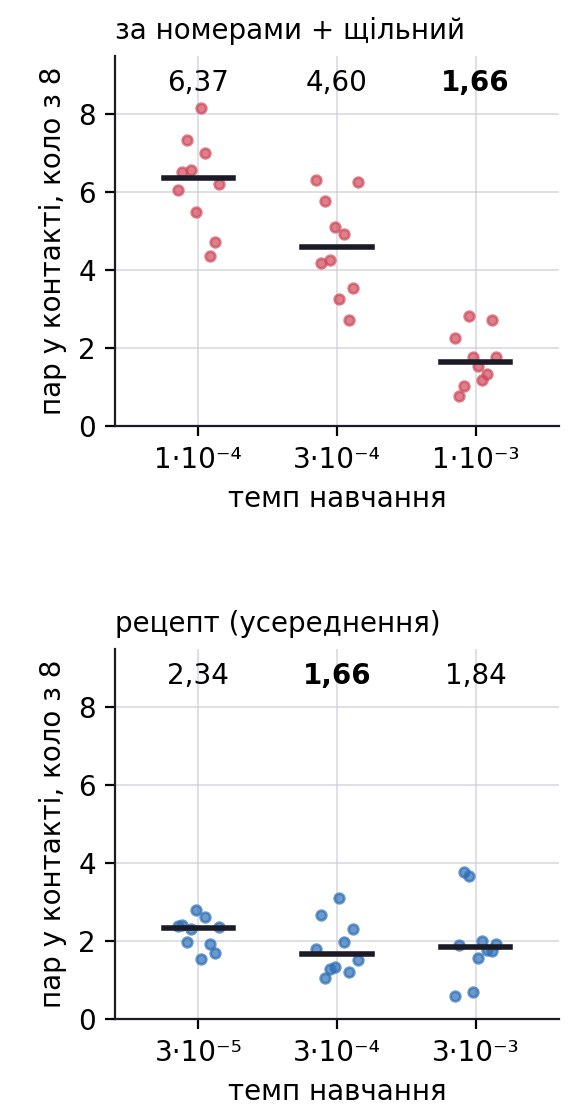
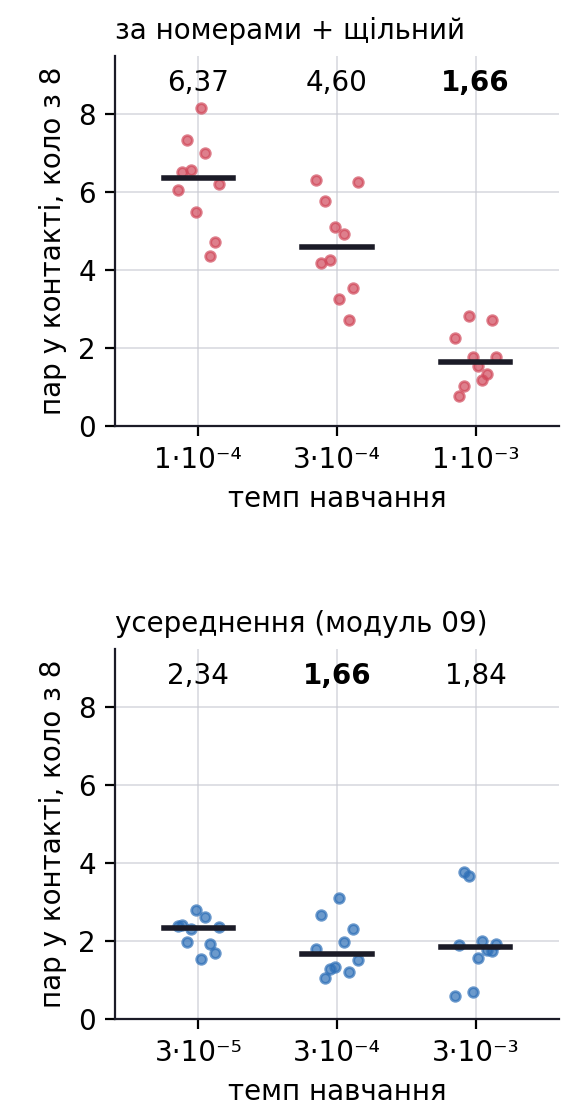
Модуль 10: «рецепт» перейменовано на «навчена політика з модуля 09»
Текст лекції, підписи рисунків, alt-тексти; у модулі 13 — одне згадування.

Changed region(s): [[0.1875, 0.5312, 0.8438, 0.5625]]

diff --git a/lectures/10.md b/lectures/10.md
@@ -5,14 +5,14 @@ outline: [2, 3]
 
 # Модуль 10 · Практика багатоагентного навчання
 
-Рій модуля 09 навчився розминатися: на колі з 4 апаратів — жодного контакту, на колі з 8 — 1,66 пари за політ. Але досить змінити в рецепті одну деталь — темп навчання, винагороду чи вхід мережі, — і рій вчиться повільніше, вчиться не того або зовсім розлітається. А два варіанти, що різняться на кілька десятих пари, можуть виявитися однаковими. Лекція — той самий рій і шість кроків: у кожному змінюємо одну річ і вчимося за журналом навчання й перевіркою зрозуміти, що сталося.
+Рій модуля 09 навчився розминатися: на колі з 4 апаратів — жодного контакту, на колі з 8 — 1,66 пари за політ. Але досить змінити в навчанні з модуля 09 одну деталь — темп навчання, винагороду чи вхід мережі, — і рій вчиться повільніше, вчиться не того або зовсім розлітається. А два варіанти, що різняться на кілька десятих пари, можуть виявитися однаковими. Лекція — той самий рій і шість кроків: у кожному змінюємо одну річ і вчимося за журналом навчання й перевіркою зрозуміти, що сталося.
 
 ::: info Задача лекції
-**Дано:** рій модуля 09 — апарати на колі міняються місцями, контакт — ближче 0,2 м. **Рецепт** модуля 09: одна мережа на всіх, усереднене вкладення сусідів, винагорода зі щільним штрафом (9.3), PPO з темпом навчання $3 \cdot 10^{-4}$, 500 ітерацій на 4 апаратах. Результат рецепта — 0 пар у контакті на колі з 4 і 1,66 на колі з 8, медіана за 10 зернами.
+**Дано:** рій модуля 09 — апарати на колі міняються місцями, контакт — ближче 0,2 м. **Навчена політика з модуля 09** — так її називатимемо далі: одна мережа на всіх, усереднене вкладення сусідів, винагорода зі щільним штрафом (9.3), PPO з темпом навчання $3 \cdot 10^{-4}$, 500 ітерацій на 4 апаратах. Її результат — 0 пар у контакті на колі з 4 і 1,66 на колі з 8, медіана за 10 зернами.
 
 **Треба:** за журналом навчання й перевіркою знайти, що зламалося, і відрізнити справжнє покращення від шуму.
 
-**Як:** змінюємо в рецепті одну річ, навчаємо 10 зерен, перевіряємо на тих самих 50 польотах, що й у модулі 09.
+**Як:** змінюємо в навчанні з модуля 09 одну річ, навчаємо 10 зерен, перевіряємо на тих самих 50 польотах, що й у модулі 09.
 :::
 
 ::: tip Чому лекція побудована так
@@ -21,9 +21,9 @@ outline: [2, 3]
 :::
 
 
-<Figure src="/figs/own/mod10-map.png" msrc="/figs/own/mod10-map-m.png" alt="Рис. 10.1. Карта лекції: шість кроків, у кожному — що змінили в рецепті модуля 09 і що побачили: лінійка (рецепт −2,40, межа −2,11), темп навчання (3·10⁻²: KL 1,25, σ до 2,14), спільна винагорода (з V = 0 рій відлітає), ролі (ціль сховано — 0 %, з номером — 100 %), зерна (4,60 проти 4,23 — шум), бюджет пошуку («за номерами» 4,60 → 1,66)">
+<Figure src="/figs/own/mod10-map.png" msrc="/figs/own/mod10-map-m.png" alt="Рис. 10.1. Карта лекції: шість кроків, у кожному — що змінили в навчанні з модуля 09 і що побачили: лінійка (навчена політика −2,40, стояти −20, межа −2,11), темп навчання (3·10⁻²: KL 1,25, σ до 2,14), спільна винагорода (з V = 0 рій відлітає), ролі (ціль сховано — 0 %, з номером — 100 %), зерна (4,60 проти 4,23 — шум), бюджет пошуку («за номерами» 4,60 → 1,66)">
 
-Рис. 10.1. Карта лекції: шість кроків, у кожному — що змінили в рецепті модуля 09 і що побачили: лінійка (рецепт −2,40, межа −2,11), темп навчання (3·10⁻²: KL 1,25, σ до 2,14), спільна винагорода (з V = 0 рій відлітає), ролі (ціль сховано — 0 %, з номером — 100 %), зерна (4,60 проти 4,23 — шум), бюджет пошуку («за номерами» 4,60 → 1,66)
+Рис. 10.1. Карта лекції: шість кроків, у кожному — що змінили в навчанні з модуля 09 і що побачили: лінійка (навчена політика −2,40, стояти −20, межа −2,11), темп навчання (3·10⁻²: KL 1,25, σ до 2,14), спільна винагорода (з V = 0 рій відлітає), ролі (ціль сховано — 0 %, з номером — 100 %), зерна (4,60 проти 4,23 — шум), бюджет пошуку («за номерами» 4,60 → 1,66)
 
 </Figure>
 
@@ -43,50 +43,50 @@ outline: [2, 3]
 <div class="step-nav">Крок 1 з 6 · ●○○○○○</div>
 
 ::: danger Проблема
-Журнал навчання рецепта закінчується віддачею −3,26 за політ. Добре це чи погано? Саме число нічого не каже: віддача залежить від винагороди, тривалості польоту й задачі.
+Журнал навчання політики з модуля 09 закінчується віддачею −3,26 за політ. Добре це чи погано? Саме число нічого не каже: віддача залежить від винагороди, тривалості польоту й задачі.
 :::
 
 ::: warning Ідея
 Поставити поруч віддачі простих політик, які нічого не вчили, і межу, кращу за яку не буває. Тоді −3,26 стає точкою на шкалі.
 :::
 
-**Віддача** тут — сума винагород (9.3) одного апарата за політ зі 100 кроків, середнє за апаратами й 50 тестовими польотами. Беремо три **базові політики** — прості, без навчання — і рецепт, усе на колі з 4. Поруч із віддачею дивимося на дві метрики задачі: **пар у контакті** і **дійшли до цілі** — частку апаратів, що наприкінці польоту ближче 0,1 м до своєї цілі.
+**Віддача** тут — сума винагород (9.3) одного апарата за політ зі 100 кроків, середнє за апаратами й 50 тестовими польотами. Беремо три **базові політики** — прості, без навчання — і навчену політику з модуля 09, усе на колі з 4. Поруч із віддачею дивимося на дві метрики задачі: **пар у контакті** і **дійшли до цілі** — частку апаратів, що наприкінці польоту ближче 0,1 м до своєї цілі.
 
 - **мережа до навчання** — ті самі ваги, з яких стартує навчання, 10 зерен;
 - **стояти на місці** — бажана швидкість нуль;
 - **летіти прямо** — до цілі на повній швидкості, сусідів не бачить (крок 1 модуля 09);
-- **рецепт** — навчена політика модуля 09, 10 зерен.
+- **навчена політика з модуля 09** — 10 зерен.
 
 **Межа.** Навіть без сусідів апарат мусить долетіти до цілі, і доданка відстані $-0{,}1\,\lVert g_i - p_i \rVert$ на кожному кроці не уникнути. Прямий політ, у якому рахуємо лише цей доданок, дає найкращу віддачу, яку можна отримати: −2,11.
 
 
-<Figure src="/figs/own/mod10-ruler.png" msrc="/figs/own/mod10-ruler-m.png" alt="Рис. 10.2. Віддача апарата за політ на колі з 4: мережа до навчання −22,7, стояти на місці −20,0, летіти прямо −13,7 (6 пар із 6), рецепт модуля 09 −2,4; пунктир — межа −2,11, лише доданок відстані до цілі">
+<Figure src="/figs/own/mod10-ruler.png" msrc="/figs/own/mod10-ruler-m.png" alt="Рис. 10.2. Віддача апарата за політ на колі з 4: мережа до навчання −22,7, стояти на місці −20,0, летіти прямо −13,7 (6 пар із 6), навчена політика з модуля 09 −2,4; пунктир — межа −2,11, лише доданок відстані до цілі">
 
-Рис. 10.2. Віддача апарата за політ на колі з 4: мережа до навчання −22,7, стояти на місці −20,0, летіти прямо −13,7 (6 пар із 6), рецепт модуля 09 −2,4; пунктир — межа −2,11, лише доданок відстані до цілі
+Рис. 10.2. Віддача апарата за політ на колі з 4: мережа до навчання −22,7, стояти на місці −20,0, летіти прямо −13,7 (6 пар із 6), навчена політика з модуля 09 −2,4; пунктир — межа −2,11, лише доданок відстані до цілі
 
 </Figure>
 
 
-*Табл. 10.1. Коло з 4, 50 тестових польотів; для мережі до навчання й рецепта — медіана за 10 зернами*
+*Табл. 10.1. Коло з 4, 50 тестових польотів; для мережі до навчання й навченої політики — медіана за 10 зернами*
 
 | **Політика** | **Віддача за політ** | **Пар у контакті** | **Дійшли до цілі** |
 |---|---|---|---|
 | мережа до навчання | −22,69 | 0 | 0 % |
 | стояти на місці | −19,99 | 0 | 0 % |
 | летіти прямо | −13,68 | 6 з 6 | 100 % |
-| рецепт | −2,40 | 0 | 100 % |
+| навчена політика з модуля 09 | −2,40 | 0 | 100 % |
 | межа: лише відстань до цілі | −2,11 | — | — |
 
 ::: info Розрахунок: скільки лишилося покращувати
-Від мережі до навчання до межі — 20,58 одиниці віддачі. Рецепт пройшов 98,6 % цього шляху: від −2,40 до межі лишається 0,29. Ці 0,29 — ціна розминання: апарат облітає сусідів і на кілька кроків довше летить до цілі.
+Від мережі до навчання до межі — 20,58 одиниці віддачі. Навчена політика пройшла 98,6 % цього шляху: від −2,40 до межі лишається 0,29. Ці 0,29 — ціна розминання: апарат облітає сусідів і на кілька кроків довше летить до цілі.
 :::
 
-**Шкала для журналу.** Журнал рахує віддачу на навчальних сценах (половина — коло з випадковим радіусом, половина — випадкові старти й цілі) і з шумом дій. На тих самих навчальних сценах стояти — −23,56, летіти прямо — −12,84, жадібний рецепт — −3,02; з шумом дій у журналі — −3,26. На навчальних сценах шкала інша: стояти там гірше, ніж на тестовому колі (−23,56 проти −19,99), летіти прямо — трохи краще (−12,84 проти −13,68). Тож числа журналу порівнюємо з базовими політиками саме на навчальних сценах.
+**Шкала для журналу.** Журнал рахує віддачу на навчальних сценах (половина — коло з випадковим радіусом, половина — випадкові старти й цілі) і з шумом дій. На тих самих навчальних сценах стояти — −23,56, летіти прямо — −12,84, жадібна навчена політика — −3,02; з шумом дій у журналі — −3,26. На навчальних сценах шкала інша: стояти там гірше, ніж на тестовому колі (−23,56 проти −19,99), летіти прямо — трохи краще (−12,84 проти −13,68). Тож числа журналу порівнюємо з базовими політиками саме на навчальних сценах.
 
 **Одного числа замало.** Прямий політ має кращу віддачу, ніж стояти на місці (−13,68 проти −19,99), і при цьому торкається всіх 6 пар. Стояти на місці безпечно, але ніхто не долітає. Тому віддачу завжди читаємо разом із парами в контакті й часткою тих, хто дійшов.
 
 ::: tip Результат кроку 1
-Дві шкали. Тестове коло: мережа до навчання −22,69, стояти −19,99, рецепт −2,40, межа −2,11. Навчальні сцени, з якими порівнюємо журнал: стояти −23,56, прямо −12,84, жадібний рецепт −3,02, рецепт у журналі −3,26. Віддачу завжди читаємо разом із парами в контакті й часткою тих, хто дійшов.
+Дві шкали. Тестове коло: мережа до навчання −22,69, стояти −19,99, навчена політика −2,40, межа −2,11. Навчальні сцени, з якими порівнюємо журнал: стояти −23,56, прямо −12,84, жадібна навчена політика −3,02, навчена політика в журналі −3,26. Віддачу завжди читаємо разом із парами в контакті й часткою тих, хто дійшов.
 :::
 
 ## Крок 2. Журнал навчання: темп навчання
@@ -101,12 +101,12 @@ outline: [2, 3]
 На кожній ітерації записувати кілька чисел про саме навчання — **журнал навчання**. Кожне число відповідає на одне питання: чи змінюється політика, чи не забагато, чи ще досліджує, чи критик щось розуміє.
 :::
 
-**Темп навчання** (*learning rate*) — множник кроку оптимізатора Adam: на скільки змінюються ваги мережі за одне оновлення. У рецепті — $3 \cdot 10^{-4}$ (табл. 9.1 модуля 09), як у PPO Schulman та ін. (2017). Навчимо той самий рій із темпом удесятеро меншим, удесятеро і в сто разів більшим.
+**Темп навчання** (*learning rate*) — множник кроку оптимізатора Adam: на скільки змінюються ваги мережі за одне оновлення. У модулі 09 — $3 \cdot 10^{-4}$ (табл. 9.1 модуля 09), як у PPO Schulman та ін. (2017). Навчимо той самий рій із темпом удесятеро меншим, удесятеро і в сто разів більшим.
 
 ::: info Що записуємо на кожній ітерації
 Тут $\rho = \pi_{\text{нова}}(a \mid o) / \pi_{\text{стара}}(a \mid o)$ — **відношення ймовірностей** дії в новій і старій політиці з модуля 05. PPO обрізає його до 0,8…1,2, щоб політика не відходила від старої більше ніж на 20 %. **KL** — дивергенція Кульбака — Лейблера: міра того, наскільки один розподіл дій відрізняється від іншого.
 
-| **Число** | **Що це** | **Рецепт: ітерації 0–9 → 490–499** |
+| **Число** | **Що це** | **Навчена політика: ітерації 0–9 → 490–499** |
 |---|---|---|
 | віддача | середня віддача апарата за політ у навчальних польотах (з шумом дій) | −20,42 → −3,26 |
 | KL | наскільки нова політика відійшла від старої за ітерацію: середнє $(\rho - 1 - \ln \rho)$ | 0,0017 → 0,0027 |
@@ -135,17 +135,17 @@ outline: [2, 3]
 | **Темп** | **Віддача** | **KL** | **Обрізано** | **σ** | **Поясн. дисп.** | **Коло з 8: пар · дійшли** |
 |---|---|---|---|---|---|---|
 | $3 \cdot 10^{-5}$ | −4,69 | 0,0001 | 0 % | 0,57 | 0,23 | 2,34 · 100 % |
-| $3 \cdot 10^{-4}$, рецепт | −3,26 | 0,0027 | 3 % | 0,30 | 0,83 | 1,66 · 82 % |
+| $3 \cdot 10^{-4}$, як у модулі 09 | −3,26 | 0,0027 | 3 % | 0,30 | 0,83 | 1,66 · 82 % |
 | $3 \cdot 10^{-3}$ | −3,32 | 0,016 | 16 % | 0,086 | 0,80 | 1,84 · 89 % |
 | $3 \cdot 10^{-2}$ | −8,09 | 0,028 | 17 % | 2,14 | 0,76 | 1,66 · 52 % |
 
 **Як це читати.**
 
-- **Замалий темп, $3 \cdot 10^{-5}$.** KL у двадцять разів менший, ніж у рецепта, обрізань немає, σ за 500 ітерацій майже не зменшилася (0,61 → 0,57). Політика ледь змінюється. Віддача росте, але повільно, а критик пояснює лише 23 % розкиду. Апарати долітають, проте на колі з 8 торкаються частіше: 2,34 пари (чи це більше за шум, не перевіряли).
-- **Завеликий темп, $3 \cdot 10^{-3}$.** Кінцева віддача така сама, як у рецепта, і на колі з 8 різниця в межах шуму. Але журнал попереджає: KL росте до 0,016, обрізано 16 % відношень, σ упала до 0,086 — політика майже перестала досліджувати. Рій встиг навчитися раніше, ніж перестав пробувати нове; в іншій задачі на цьому навчання може й зупинитися.
-- **Зламаний темп, $3 \cdot 10^{-2}$.** Уже за перші 10 ітерацій KL — 1,25, у сотні разів більше, ніж у рецепта, віддача падає до −46,5 — гірше, ніж на нульовій ітерації (−20,42). Далі σ росте до 2,14: шум дій більший за найбільшу команду (1 м/с), тож апарат майже не керує собою. До цілі на колі з 4 доходить 73 % апаратів, на колі з 8 — 52 %. Пар у контакті 1,66, як у рецепта: апарати, що не долетіли до центру, і не торкаються.
+- **Замалий темп, $3 \cdot 10^{-5}$.** KL у двадцять разів менший, ніж у навченої політики, обрізань немає, σ за 500 ітерацій майже не зменшилася (0,61 → 0,57). Політика ледь змінюється. Віддача росте, але повільно, а критик пояснює лише 23 % розкиду. Апарати долітають, проте на колі з 8 торкаються частіше: 2,34 пари (чи це більше за шум, не перевіряли).
+- **Завеликий темп, $3 \cdot 10^{-3}$.** Кінцева віддача така сама, як у навченої політики, і на колі з 8 різниця в межах шуму. Але журнал попереджає: KL росте до 0,016, обрізано 16 % відношень, σ упала до 0,086 — політика майже перестала досліджувати. Рій встиг навчитися раніше, ніж перестав пробувати нове; в іншій задачі на цьому навчання може й зупинитися.
+- **Зламаний темп, $3 \cdot 10^{-2}$.** Уже за перші 10 ітерацій KL — 1,25, у сотні разів більше, ніж у навченої політики, віддача падає до −46,5 — гірше, ніж на нульовій ітерації (−20,42). Далі σ росте до 2,14: шум дій більший за найбільшу команду (1 м/с), тож апарат майже не керує собою. До цілі на колі з 4 доходить 73 % апаратів, на колі з 8 — 52 %. Пар у контакті 1,66, як у навченої політики: апарати, що не долетіли до центру, і не торкаються.
 
-Останній рядок показує, чому пари в контакті без частки тих, хто дійшов, оманливі: найгірша політика має стільки ж пар, скільки рецепт.
+Останній рядок показує, чому пари в контакті без частки тих, хто дійшов, оманливі: найгірша політика має стільки ж пар, скільки навчена політика з модуля 09.
 
 ::: info Симптоми в журналі PPO
 | **Що бачимо** | **Що це означає** | **Що робити** |
@@ -167,11 +167,11 @@ outline: [2, 3]
 <div class="step-nav">Крок 3 з 6 · ●●●○○○</div>
 
 ::: danger Проблема
-У рецепті кожен апарат отримує **свою** винагороду: хто зачепив сусіда, той і штрафується. У багатьох місіях так не можна — рій отримує одне число за спільний результат, наприклад за площу, яку обстежили всі разом. Як тоді навчається наш рій?
+У модулі 09 кожен апарат отримує **свою** винагороду: хто зачепив сусіда, той і штрафується. У багатьох місіях так не можна — рій отримує одне число за спільний результат, наприклад за площу, яку обстежили всі разом. Як тоді навчається наш рій?
 :::
 
 ::: warning Ідея
-Навчити той самий рецепт, але кожному апарату на кожному кроці давати **спільну винагороду** — середнє винагород усіх апаратів рою.
+Навчити так само, як у модулі 09, але кожному апарату на кожному кроці давати **спільну винагороду** — середнє винагород усіх апаратів рою.
 :::
 
 ::: info Приклад: своя і спільна винагорода на одному кроці
@@ -188,9 +188,9 @@ outline: [2, 3]
 **Що вийшло.** Рій не просто вчиться повільніше — він розучується літати. Перші 2–29 ітерацій (залежно від зерна) віддача трохи росте, далі падає до −51 — гірше, ніж стояти на місці на тих самих навчальних сценах (−23,6). Після навчання рій строєм відлітає від цілей: за 10 с центр рою зсувається на 9–10 м, у кожного зерна в свій бік. До цілі не доходить жоден апарат у жодному з 10 зерен.
 
 
-<Figure src="/figs/own/mod10-teamfail.png" msrc="/figs/own/mod10-teamfail-m.png" alt="Рис. 10.4. Віддача під час навчання рецепта зі своєю і зі спільною винагородою: своя росте до −3,3, спільна після перших ітерацій падає до −51, нижче лінії «стояти на місці» (−23,6); праворуч — політ рою зі спільною винагородою після навчання: чотири апарати строєм відлітають на 10 м від своїх цілей">
+<Figure src="/figs/own/mod10-teamfail.png" msrc="/figs/own/mod10-teamfail-m.png" alt="Рис. 10.4. Віддача під час навчання, як у модулі 09, зі своєю і зі спільною винагородою: своя росте до −3,3, спільна після перших ітерацій падає до −51, нижче лінії «стояти на місці» (−23,6); праворуч — політ рою зі спільною винагородою після навчання: чотири апарати строєм відлітають на 10 м від своїх цілей">
 
-Рис. 10.4. Віддача під час навчання рецепта зі своєю і зі спільною винагородою: своя росте до −3,3, спільна після перших ітерацій падає до −51, нижче лінії «стояти на місці» (−23,6); праворуч — політ рою зі спільною винагородою після навчання: чотири апарати строєм відлітають на 10 м від своїх цілей
+Рис. 10.4. Віддача під час навчання, як у модулі 09, зі своєю і зі спільною винагородою: своя росте до −3,3, спільна після перших ітерацій падає до −51, нижче лінії «стояти на місці» (−23,6); праворуч — політ рою зі спільною винагородою після навчання: чотири апарати строєм відлітають на 10 м від своїх цілей
 
 </Figure>
 
@@ -209,7 +209,7 @@ outline: [2, 3]
 
 **Перевага — це «несподіванка».** Критик прогнозує, скільки винагороди апарат ще збере, — це цінність $V$. Якщо після дії справи пішли краще за прогноз, перевага додатна.
 
-**Що стається на останньому кроці.** Політ обривається після 100-го кроку незалежно від того, долетів апарат чи ні. Критик часу не бачить: стан на 100-му кроці для нього такий самий, як на 50-му. Тож у кожному стані він прогнозує ту саму цінність — у найпростішому польоті з штрафом −0,3 на кожному кроці це $-0{,}3/(1 - 0{,}99) = -30$. А рецепт модуля 09 після 100-го кроку підставляє $V = 0$: «далі нічого не буде».
+**Що стається на останньому кроці.** Політ обривається після 100-го кроку незалежно від того, долетів апарат чи ні. Критик часу не бачить: стан на 100-му кроці для нього такий самий, як на 50-му. Тож у кожному стані він прогнозує ту саму цінність — у найпростішому польоті з штрафом −0,3 на кожному кроці це $-0{,}3/(1 - 0{,}99) = -30$. А навчання з модуля 09 після 100-го кроку підставляє $V = 0$: «далі нічого не буде».
 
 ::: info Розрахунок: несподіванка останнього кроку
 Критик чекав −30, а отримав штраф −0,3 і нуль після нього:
@@ -289,7 +289,7 @@ V = 0 на 100-му кроці  A на кроках 0, 50, 90, 99: [ 0.07  1.47 
 
 | **Винагорода** | **Після 100-го кроку** | **Віддача, ітерації 490–499** | **Коло з 4: пар · дійшли** | **Коло з 8: пар · дійшли** |
 |---|---|---|---|---|
-| своя (рецепт) | $V = 0$ | −3,26 | 0 · 100 % | 1,66 · 82 % |
+| своя (як у модулі 09) | $V = 0$ | −3,26 | 0 · 100 % | 1,66 · 82 % |
 | спільна | $V = 0$ | −50,9 | 0 · 0 % | 0 · 0 % |
 | своя | бутстреп цінності | −3,39 | 0 · 100 % | 1,71 · 100 % |
 | спільна | бутстреп цінності | −4,47 | 0 · 100 % | 2,28 · 100 % |
@@ -306,8 +306,8 @@ V = 0 на 100-му кроці  A на кроках 0, 50, 90, 99: [ 0.07  1.47 
 
 **Але повільніше, ніж зі своєю.** На 90–99-й ітераціях віддача −7,29 проти −4,70, наприкінці −4,47 проти −3,39. Імовірна причина — розподіл заслуг із модулів 06 і 09: внесок чотирьох апаратів змішано в одне число, і апарат гірше бачить, які з його власних дій були добрими. Чому вада з $V = 0$ зламала саме спільну винагороду, а свою — ні, ми окремо не вимірювали; наше пояснення — у «Межах». Пар у контакті на колі з 8 — 2,28 проти 1,71; чи це справжня різниця, перевіримо в кроці 5.
 
-::: details Рецепт модуля 09 з бутстрепом цінності
-Рецепт мав ту саму ваду, але зі своєю винагородою вона майже не шкодила: пар на колі з 8 — 1,71 з бутстрепом проти 1,66 без нього. До цілі на колі з 8 тепер доходять 100 % апаратів проти 82 %, на колі з 16 — 50 % проти 66 %. Щоб числа кроків 4–6 збігалися з модулем 09, далі лишаємо рецепт без змін, із $V = 0$.
+::: details Навчена політика з модуля 09 з бутстрепом цінності
+Навчання з модуля 09 мало ту саму ваду, але зі своєю винагородою вона майже не шкодила: пар на колі з 8 — 1,71 з бутстрепом проти 1,66 без нього. До цілі на колі з 8 тепер доходять 100 % апаратів проти 82 %, на колі з 16 — 50 % проти 66 %. Щоб числа кроків 4–6 збігалися з модулем 09, далі лишаємо навчання з модуля 09 без змін, із $V = 0$.
 :::
 
 ::: tip Результат кроку 3
@@ -319,7 +319,7 @@ V = 0 на 100-му кроці  A на кроках 0, 50, 90, 99: [ 0.07  1.47 
 <div class="step-nav">Крок 4 з 6 · ●●●●○○</div>
 
 ::: danger Проблема
-Рецепт дає всім апаратам одну мережу. Це працює, бо всі роблять одне й те саме: летять до цілі, вектор до якої бачать у своєму вході. А якщо в кожного апарата своя роль — свій сектор, своя точка посадки, — і мережа не знає, чия вона?
+У модулі 09 всі апарати виконують одну мережу. Це працює, бо всі роблять одне й те саме: летять до цілі, вектор до якої бачать у своєму вході. А якщо в кожного апарата своя роль — свій сектор, своя точка посадки, — і мережа не знає, чия вона?
 :::
 
 **Задача ролей.** Чотири апарати стартують у випадкових точках квадрата ±1,2 м. Кожен має сісти у **свою** точку: апарат 1 — у $(0{,}8;\ 0{,}8)$, апарат 2 — у $(-0{,}8;\ 0{,}8)$, 3 — у $(-0{,}8;\ -0{,}8)$, 4 — у $(0{,}8;\ -0{,}8)$. Винагорода та сама (9.3), PPO той самий, 10 зерен, перевірка — 50 польотів із випадкових стартів.
@@ -336,7 +336,7 @@ V = 0 на 100-му кроці  A на кроках 0, 50, 90, 99: [ 0.07  1.47 
 Головне питання — звідки апарат знає, яка точка його. Пробуємо чотири варіанти входу і для кожного дивимося, що бачить апарат 1 на старті першого тестового польоту: він у точці $(-0{,}49;\ 0{,}04)$, швидкість нуль, його точка — $(0{,}8;\ 0{,}8)$.
 :::
 
-**Варіант 1. Ціль у вході — як у рецепті.** Апарат бачить вектор до своєї точки і свою швидкість: $(1{,}29;\ 0{,}76;\ 0;\ 0)$. Мережа одна на всіх. Команда — $(1{,}00;\ 0{,}94)$ м/с, майже прямо на свою точку. **До своєї точки доходять 100 % апаратів.**
+**Варіант 1. Ціль у вході — як у модулі 09.** Апарат бачить вектор до своєї точки і свою швидкість: $(1{,}29;\ 0{,}76;\ 0;\ 0)$. Мережа одна на всіх. Команда — $(1{,}00;\ 0{,}94)$ м/с, майже прямо на свою точку. **До своєї точки доходять 100 % апаратів.**
 
 **Варіант 2. Ціль сховано.** Замість вектора до точки апарат бачить своє положення і швидкість: $(-0{,}49;\ 0{,}04;\ 0;\ 0)$. Про те, яка точка його, у вході нічого немає. Мережа одна на всіх. Команда — $(1{,}00;\ -1{,}00)$ м/с, на 75° убік від його точки. Якби на цьому місці з тими самими сусідами стояв апарат 3, вхід був би той самий — і команда та сама, хоча його точка в протилежному куті. Одна мережа не може послати їх у різні точки. **До своєї точки не доходить ніхто (0 %)**: апарати збираються ближче до центру квадрата й зависають у середньому за 1,26 м від своїх точок.
 
@@ -394,7 +394,7 @@ V = 0 на 100-му кроці  A на кроках 0, 50, 90, 99: [ 0.07  1.47 
 <div class="step-nav">Крок 5 з 6 · ●●●●●○</div>
 
 ::: danger Проблема
-**Зерно** (*random seed*) — число, яке задає всю випадковість навчання: початкові ваги мережі, навчальні сцени, шум дій. Та сама програма з різними зернами вчиться по-різному: рецепт на колі з 8 дає від 1,06 до 3,12 пари залежно від зерна. У модулі 09 «за номерами + щільний» дав 4,60 пари (медіана 10 зерен), «за відстанню + щільний» — 4,23. Чи справді «за відстанню» кращий?
+**Зерно** (*random seed*) — число, яке задає всю випадковість навчання: початкові ваги мережі, навчальні сцени, шум дій. Та сама програма з різними зернами вчиться по-різному: навчена політика з модуля 09 на колі з 8 дає від 1,06 до 3,12 пари залежно від зерна. У модулі 09 «за номерами + щільний» дав 4,60 пари (медіана 10 зерен), «за відстанню + щільний» — 4,23. Чи справді «за відстанню» кращий?
 :::
 
 ::: warning Ідея
@@ -464,17 +464,17 @@ print(f"частка повторів, де «за номерами» краще
 
 ### 5.1 Протокол перевірки
 
-Зерна навчання — не єдине джерело розкиду. **Протокол перевірки** — скільки тестових польотів і з яких стартів; старти задає окреме **зерно перевірки**. Перевіримо ті самі 10 моделей рецепта чотирма протоколами:
+Зерна навчання — не єдине джерело розкиду. **Протокол перевірки** — скільки тестових польотів і з яких стартів; старти задає окреме **зерно перевірки**. Перевіримо ті самі 10 моделей навченої політики з модуля 09 чотирма протоколами:
 
 
-<Figure src="/figs/own/mod10-protocol.png" msrc="/figs/own/mod10-protocol-m.png" alt="Рис. 10.11. Ті самі 10 моделей рецепта на колі з 8 за чотирьох протоколів перевірки — 20, 50, 50 з іншими стартами і 500 польотів; медіани 1,60, 1,66, 1,78, 1,73; лінії з'єднують те саме зерно">
+<Figure src="/figs/own/mod10-protocol.png" msrc="/figs/own/mod10-protocol-m.png" alt="Рис. 10.11. Ті самі 10 моделей навченої політики з модуля 09 на колі з 8 за чотирьох протоколів перевірки — 20, 50, 50 з іншими стартами і 500 польотів; медіани 1,60, 1,66, 1,78, 1,73; лінії з'єднують те саме зерно">
 
-Рис. 10.11. Ті самі 10 моделей рецепта на колі з 8 за чотирьох протоколів перевірки — 20, 50, 50 з іншими стартами і 500 польотів; медіани 1,60, 1,66, 1,78, 1,73; лінії з'єднують те саме зерно
+Рис. 10.11. Ті самі 10 моделей навченої політики з модуля 09 на колі з 8 за чотирьох протоколів перевірки — 20, 50, 50 з іншими стартами і 500 польотів; медіани 1,60, 1,66, 1,78, 1,73; лінії з'єднують те саме зерно
 
 </Figure>
 
 
-*Табл. 10.5. Рецепт, коло з 8: пар у контакті, медіана (мін–макс) за 10 зернами*
+*Табл. 10.5. Навчена політика з модуля 09, коло з 8: пар у контакті, медіана (мін–макс) за 10 зернами*
 
 | **Протокол** | **Пар у контакті** |
 |---|---|
@@ -490,7 +490,7 @@ print(f"частка повторів, де «за номерами» краще
 <div class="step-nav">Крок 6 з 6 · ●●●●●●</div>
 
 ::: danger Проблема
-У модулі 09 усі варіанти навчено з тим самим темпом $3 \cdot 10^{-4}$. Рецепт («усереднення + щільний») дав 1,66 пари на колі з 8, «за номерами + щільний» — 4,60. Чи це перевага способу подати сусідів — чи темп $3 \cdot 10^{-4}$ просто краще підійшов рецепту?
+У модулі 09 усі варіанти навчено з тим самим темпом $3 \cdot 10^{-4}$. Навчена політика («усереднення + щільний») дав 1,66 пари на колі з 8, «за номерами + щільний» — 4,60. Чи це перевага способу подати сусідів — чи темп $3 \cdot 10^{-4}$ просто краще підійшов усередненню?
 :::
 
 **Гіперпараметр** — налаштування, яке не вчиться разом із мережею, а задається до навчання: темп, розмір мережі, кількість проходів. **Бюджет пошуку** — скільки значень гіперпараметрів спробували для варіанта. У модулі 09 бюджет кожного варіанта — одне значення темпу.
@@ -502,9 +502,9 @@ print(f"частка повторів, де «за номерами» краще
 **Як вибирати найкращий.** Під час навчання кожні 25 ітерацій політику перевіряють на 20 польотах (зерно перевірки 7) — це **крива навчання**. Найкращий темп вибираємо за останньою точкою кривої, а результат наводимо на інших польотах — 50 тестових, зерно перевірки 123. Якщо вибирати й звітувати на тих самих польотах, переможець виглядатиме кращим, ніж є: його вибрали саме тому, що йому на цих польотах пощастило.
 
 
-<Figure src="/figs/own/mod10-budget.png" msrc="/figs/own/mod10-budget-m.png" alt="Рис. 10.12. Пар у контакті на колі з 8 за трьох темпів навчання, 10 зерен: «за номерами + щільний» 6,37, 4,60, 1,66 і рецепт 2,34, 1,66, 1,84; найкращі — по 1,66 в обох">
+<Figure src="/figs/own/mod10-budget.png" msrc="/figs/own/mod10-budget-m.png" alt="Рис. 10.12. Пар у контакті на колі з 8 за трьох темпів навчання, 10 зерен: «за номерами + щільний» 6,37, 4,60, 1,66 і «усереднення + щільний» з модуля 09 2,34, 1,66, 1,84; найкращі — по 1,66 в обох">
 
-Рис. 10.12. Пар у контакті на колі з 8 за трьох темпів навчання, 10 зерен: «за номерами + щільний» 6,37, 4,60, 1,66 і рецепт 2,34, 1,66, 1,84; найкращі — по 1,66 в обох
+Рис. 10.12. Пар у контакті на колі з 8 за трьох темпів навчання, 10 зерен: «за номерами + щільний» 6,37, 4,60, 1,66 і «усереднення + щільний» з модуля 09 2,34, 1,66, 1,84; найкращі — по 1,66 в обох
 
 </Figure>
 
@@ -516,23 +516,23 @@ print(f"частка повторів, де «за номерами» краще
 | за номерами + щільний | $1 \cdot 10^{-4}$ | 6,45 | 6,37 | 100 % |
 | | $3 \cdot 10^{-4}$ | 4,77 | 4,60 | 100 % |
 | | $1 \cdot 10^{-3}$ | **1,72** | **1,66** (0,78–2,84) | 100 % |
-| рецепт: усереднення + щільний | $3 \cdot 10^{-5}$ | 2,35 | 2,34 | 100 % |
+| навчена політика: усереднення + щільний | $3 \cdot 10^{-5}$ | 2,35 | 2,34 | 100 % |
 | | $3 \cdot 10^{-4}$ | **1,60** | **1,66** (1,06–3,12) | 82 % |
 | | $3 \cdot 10^{-3}$ | 1,80 | 1,84 | 89 % |
 
-**З однаковим бюджетом різниці на колі з 8 немає.** «За номерами» з темпом $10^{-3}$ — 1,66 пари, стільки ж, скільки рецепт, і до цілі доходять усі. Перевага рецепта в модулі 09 (1,66 проти 4,60) трималася на темпі, який підійшов рецепту й не підійшов «за номерами». Вибір за кривою й тест майже збіглися (1,72 і 1,66), тож 20 польотів для вибору досить.
+**З однаковим бюджетом різниці на колі з 8 немає.** «За номерами» з темпом $10^{-3}$ — 1,66 пари, стільки ж, скільки навчена політика, і до цілі доходять усі. Перевага усереднення в модулі 09 (1,66 проти 4,60) трималася на темпі, який підійшов усередненню й не підійшов «за номерами». Вибір за кривою й тест майже збіглися (1,72 і 1,66), тож 20 польотів для вибору досить.
 
-**Перевага усереднення — на більшому рої.** На колі з 16 обидва варіанти торкаються часто (рецепт — 20,2 пари, «за номерами» з $10^{-3}$ — 18,3), але до цілі рецепт доводить 66 % апаратів, а «за номерами» — 6 %.
+**Перевага усереднення — на більшому рої.** На колі з 16 обидва варіанти торкаються часто (навчена політика — 20,2 пари, «за номерами» з $10^{-3}$ — 18,3), але до цілі навчена політика доводить 66 % апаратів, а «за номерами» — 6 %.
 
 ::: tip Результат кроку 6
-Без однакового бюджету пошуку порівняння вимірює не метод, а вдачу з гіперпараметрами. З підібраним темпом «за номерами» дорівнює рецепту на колі з 8 (1,66 і 1,66); рецепт кращий на колі з 16 — 66 % дійшли проти 6 %.
+Без однакового бюджету пошуку порівняння вимірює не метод, а вдачу з гіперпараметрами. З підібраним темпом «за номерами» дорівнює навченій політиці на колі з 8 (1,66 і 1,66); навчена політика краща на колі з 16 — 66 % дійшли проти 6 %.
 :::
 
 ### 6.1 Пастка: найкраща контрольна точка
 
 **Контрольна точка** — ваги мережі, збережені на одній з ітерацій навчання; у нас — кожні 25 ітерацій, разом із точкою кривої навчання. Спокусливо взяти не останню, а найкращу.
 
-**Спроба.** Для кожного зерна рецепта беремо контрольну точку з найменшою кількістю пар на кривій. Медіана — 0,03 пари проти 1,60 в останній точці: удесятеро краще?
+**Спроба.** Для кожного зерна навченої політики беремо контрольну точку з найменшою кількістю пар на кривій. Медіана — 0,03 пари проти 1,60 в останній точці: удесятеро краще?
 
 **Перевірка.** Повторимо навчання до цих точок (ітерації 25–75) і перевіримо їх на 50 тестових польотах за обома метриками:
 
@@ -551,7 +551,7 @@ print(f"частка повторів, де «за номерами» краще
 
 | **Крок** | **Що перевірити** | **Симптом у нашому рої** |
 |---|---|---|
-| 1 | віддачу відносно простих політик і межі | рецепт −2,40 між «стояти» −19,99 і межею −2,11 |
+| 1 | віддачу відносно простих політик і межі | навчена політика −2,40 між «стояти» −19,99 і межею −2,11 |
 | 1 | дві метрики задачі, а не одну | «летіти прямо»: віддача краща, ніж стояти, але 6 пар із 6 |
 | 2 | KL, частку обрізаних, σ | темп $3 \cdot 10^{-2}$: KL 1,25, σ росте до 2,14 |
 | 2 | пояснену дисперсію критика | темп $3 \cdot 10^{-5}$: 0,23 після 500 ітерацій |
@@ -566,20 +566,20 @@ print(f"частка повторів, де «за номерами» краще
 - Усі числа — для одного рою на площині з точковими апаратами. Орієнтири журналу (KL, частка обрізаних) залежать від задачі, розмірності дії й налаштувань PPO; переносьте їх як порядок величини, а не як пороги.
 - Темп навчання — лише один гіперпараметр. Інші — розмір мережі, кількість проходів, межу обрізання $\rho$, $\lambda$ — ми не перебирали. Andrychowicz та ін. (2021) перебрали понад 50 рішень у PPO та інших *on-policy* методах, навчивши понад 250 000 агентів.
 - Чому вада з $V = 0$ зламала спільну винагороду, а свою — ні: наше пояснення — хибна частка переваги однакова для всіх апаратів рою; зі своєю винагородою її перекриває сигнал про власні дії апарата, а зі спільною внесок апарата вчетверо менший. Це узгоджується з двома дослідами (спільна ламається, своя ні; бутстреп цінності лагодить), але окремого досліду, що вимірює ці дві частки, ми не ставили.
-- Чому в шести зернах рецепта контрольні точки 50–75-ї ітерації на колі з 8 кращі за останню, ми не з'ясовували.
+- Чому в шести зернах навченої політики контрольні точки 50–75-ї ітерації на колі з 8 кращі за останню, ми не з'ясовували.
 - Задача ролей має 4 ролі. Скільки ролей одна мережа з номером ще розрізняє, ми не перевіряли; Christianos та ін. (2021) показують, що на задачах із багатьма різними ролями цього не досить.
 - Бутстреп-інтервал за 10 зернами — грубий: 10 чисел мало, щоб надійно оцінити хвости розподілу. Agarwal та ін. (2021) радять для порівнянь на кількох задачах інтерквартильне середнє й стратифікований бутстреп.
-- Бюджет пошуку — по три темпи на варіант, але сітки різні: рецепту не давали $10^{-3}$, «за номерами» — $3 \cdot 10^{-3}$; у рецепта є ще й четвертий темп $3 \cdot 10^{-2}$ з кроку 2. З іншою сіткою числа зміняться; висновок «рівний бюджет — рівне порівняння» від сітки не залежить.
-- Кроки 4–6 використовують рецепт із $V = 0$ на межі за часом, як у модулі 09.
+- Бюджет пошуку — по три темпи на варіант, але сітки різні: навченій політиці не давали $10^{-3}$, «за номерами» — $3 \cdot 10^{-3}$; у навченої політики є ще й четвертий темп $3 \cdot 10^{-2}$ з кроку 2. З іншою сіткою числа зміняться; висновок «рівний бюджет — рівне порівняння» від сітки не залежить.
+- Кроки 4–6 навчено так, як у модулі 09, — із $V = 0$ на межі за часом.
 
 ### Висновки
 
-- Віддача має сенс лише на шкалі: мережа до навчання −22,69, стояти −19,99, рецепт −2,40, межа −2,11 на тестовому колі; журнал порівнюємо з базовими політиками на навчальних сценах. Поруч завжди — пари в контакті й частка тих, хто дійшов.
+- Віддача має сенс лише на шкалі: мережа до навчання −22,69, стояти −19,99, навчена політика −2,40, межа −2,11 на тестовому колі; журнал порівнюємо з базовими політиками на навчальних сценах. Поруч завжди — пари в контакті й частка тих, хто дійшов.
 - Журнал PPO розрізняє замалий темп (KL 0,0001, σ стоїть), завеликий (KL і частка обрізаних ростуть, σ падає до 0,086) і зламаний (KL 1,25, σ росте до 2,14).
 - Кінець епізоду за часом — обрив, а не завершення: потрібен бутстреп цінності. З $V = 0$ спільна винагорода зламала навчання (−51, рій відлітає), з бутстрепом цінності вона вчить, але повільніше за свою.
 - Одна мережа на всіх коректна, коли апарат бачить у вході свою роль; сховали ціль — 0 % у своїй точці, додали номер — 100 %.
 - 4,60 проти 4,23 пари — шум зерен (бутстреп-інтервал −0,97…2,19); 5,99 проти 3,81 за темпу $3 \cdot 10^{-4}$ — різниця.
-- Порівняння варіантів чесне лише з однаковим бюджетом пошуку: «за номерами» з підібраним темпом дорівнює рецепту на колі з 8. Найкраща контрольна точка за однією метрикою в 4 зернах із 10 — політика, що не долітає.
+- Порівняння варіантів чесне лише з однаковим бюджетом пошуку: «за номерами» з підібраним темпом дорівнює навченій політиці на колі з 8. Найкраща контрольна точка за однією метрикою в 4 зернах із 10 — політика, що не долітає.
 
 ### Перехід до модуля 11
 
@@ -593,10 +593,10 @@ print(f"частка повторів, де «за номерами» краще
 |---|---|---|---|
 | базова політика, межа | проста політика без навчання і найкраща можлива віддача | стояти −19,99, прямо −13,68, межа −2,11 | означення лекції |
 | журнал навчання | числа про саме навчання, записані на кожній ітерації | віддача, KL, обрізано, σ, пояснена дисперсія | [Schulman та ін., 2017](https://arxiv.org/abs/1707.06347) |
-| темп навчання (*learning rate*) | множник кроку оптимізатора | рецепт $3 \cdot 10^{-4}$; $3 \cdot 10^{-2}$ ламає навчання | [Andrychowicz та ін., 2021](https://arxiv.org/abs/2006.05990) |
-| KL (дивергенція Кульбака — Лейблера), оцінка $\rho - 1 - \ln\rho$ | наскільки нова політика відійшла від старої | рецепт 0,0027; $3 \cdot 10^{-2}$ — 1,25 | [Schulman, 2020](http://joschu.net/blog/kl-approx.html) |
-| частка обрізаних | частка кроків, де відношення $\rho$ вийшло за 0,8…1,2 | рецепт 3 %; $3 \cdot 10^{-3}$ — 16 % | [Schulman та ін., 2017](https://arxiv.org/abs/1707.06347); [модуль 05](/lectures/05) |
-| пояснена дисперсія | частка розкиду віддач, яку пояснює критик | рецепт 0,83 | [Stable-Baselines3](https://stable-baselines3.readthedocs.io/en/master/common/logger.html) |
+| темп навчання (*learning rate*) | множник кроку оптимізатора | у модулі 09 $3 \cdot 10^{-4}$; $3 \cdot 10^{-2}$ ламає навчання | [Andrychowicz та ін., 2021](https://arxiv.org/abs/2006.05990) |
+| KL (дивергенція Кульбака — Лейблера), оцінка $\rho - 1 - \ln\rho$ | наскільки нова політика відійшла від старої | навчена політика 0,0027; $3 \cdot 10^{-2}$ — 1,25 | [Schulman, 2020](http://joschu.net/blog/kl-approx.html) |
+| частка обрізаних | частка кроків, де відношення $\rho$ вийшло за 0,8…1,2 | навчена політика 3 %; $3 \cdot 10^{-3}$ — 16 % | [Schulman та ін., 2017](https://arxiv.org/abs/1707.06347); [модуль 05](/lectures/05) |
+| пояснена дисперсія | частка розкиду віддач, яку пояснює критик | навчена політика 0,83 | [Stable-Baselines3](https://stable-baselines3.readthedocs.io/en/master/common/logger.html) |
 | перевага, GAE | наскільки дія краща за очікувану; формула (10.1) | $\lambda = 0{,}95$, $\gamma = 0{,}99$ | [Schulman та ін., 2016](https://arxiv.org/abs/1506.02438) |
 | обрив і завершення епізоду (*truncation*, *termination*) | кінець за лімітом часу проти справжнього кінця | 100 кроків — обрив, потрібен бутстреп цінності | [Pardo та ін., 2018](https://arxiv.org/abs/1712.00378) |
 | бутстреп цінності | цінність після обриву беруть із критика | лагодить спільну винагороду | [Pardo та ін., 2018](https://arxiv.org/abs/1712.00378) |

diff --git a/lectures/13.md b/lectures/13.md
@@ -309,9 +309,9 @@ VDN:  Q_tot = -0.187, ціль = 1.211
 ## Частина 2 · Як чесно показати результат
 
 
-<Figure src="/figs/own/mod10-seeds.png" msrc="/figs/own/mod10-seeds-m.png" alt="Рис. 10.9. Пар у контакті на колі з 8 за 10 зернами (модуль 09): «номери» 5,99 проти «усереднення» 3,81 і «номери + щільний» 4,60 проти «відстань + щільний» 4,23; унизу — як часто висновок за k зернами протилежний висновку за десятьма: для першої пари 5 % за одним зерном і 0 далі, для другої — від 36 % до 17–31 %">
+<Figure src="/figs/own/mod10-seeds.png" msrc="/figs/own/mod10-seeds-m.png" alt="Рис. 10.10. Пар у контакті на колі з 8 за 10 зернами (модуль 09): «номери» 5,99 проти «усереднення» 3,81 і «номери + щільний» 4,60 проти «відстань + щільний» 4,23; унизу — як часто висновок за k зернами протилежний висновку за десятьма: для першої пари 5 % за одним зерном і 0 далі, для другої — від 36 % до 17–31 %">
 
-Рис. 10.9. Пар у контакті на колі з 8 за 10 зернами (модуль 09): «номери» 5,99 проти «усереднення» 3,81 і «номери + щільний» 4,60 проти «відстань + щільний» 4,23; унизу — як часто висновок за k зернами протилежний висновку за десятьма: для першої пари 5 % за одним зерном і 0 далі, для другої — від 36 % до 17–31 %
+Рис. 10.10. Пар у контакті на колі з 8 за 10 зернами (модуль 09): «номери» 5,99 проти «усереднення» 3,81 і «номери + щільний» 4,60 проти «відстань + щільний» 4,23; унизу — як часто висновок за k зернами протилежний висновку за десятьма: для першої пари 5 % за одним зерном і 0 далі, для другої — від 36 % до 17–31 %
 
 </Figure>
 
@@ -336,7 +336,7 @@ VDN:  Q_tot = -0.187, ціль = 1.211
 | 8 | Базова лінія | з чим порівнюємо: випадкова політика, евристика, попередній алгоритм |
 | 9 | Обчислювальні витрати | тип прискорювача, час одного запуску, загальний бюджет |
 
-Пункт 5 — найчастіше порушуваний. **Порівняння, у якому один алгоритм отримав ширший пошук гіперпараметрів, є некоректним.** На рої модуля 10 варіант «за номерами» з іншим темпом навчання покращився з 4,60 до 1,66 пари — і зрівнявся з рецептом, який перед тим вигравав.
+Пункт 5 — найчастіше порушуваний. **Порівняння, у якому один алгоритм отримав ширший пошук гіперпараметрів, є некоректним.** На рої модуля 10 варіант «за номерами» з іншим темпом навчання покращився з 4,60 до 1,66 пари — і зрівнявся з «усередненням + щільним», яке перед тим вигравало.
 
 ### Пошук гіперпараметрів і бюджет
 
